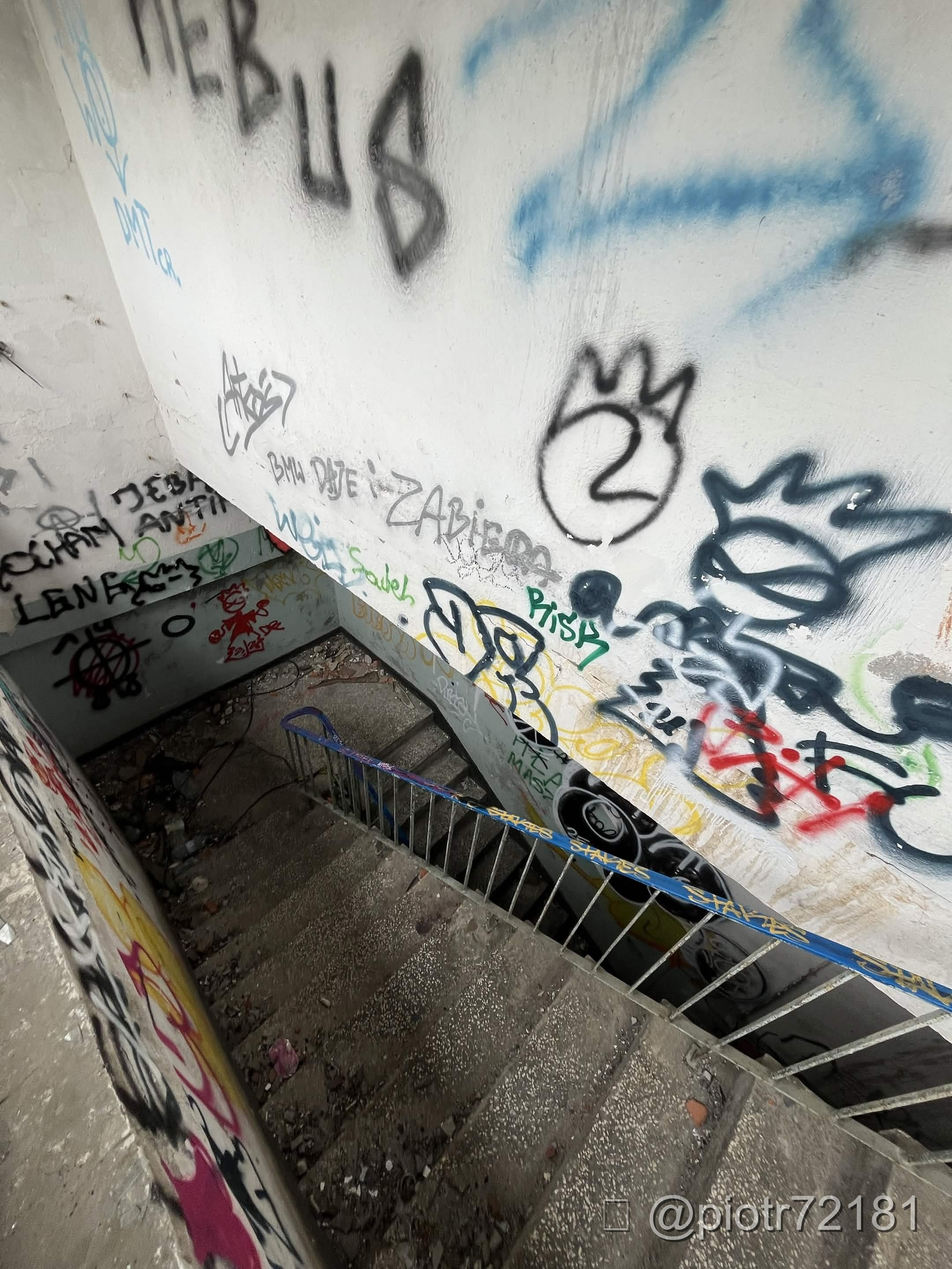
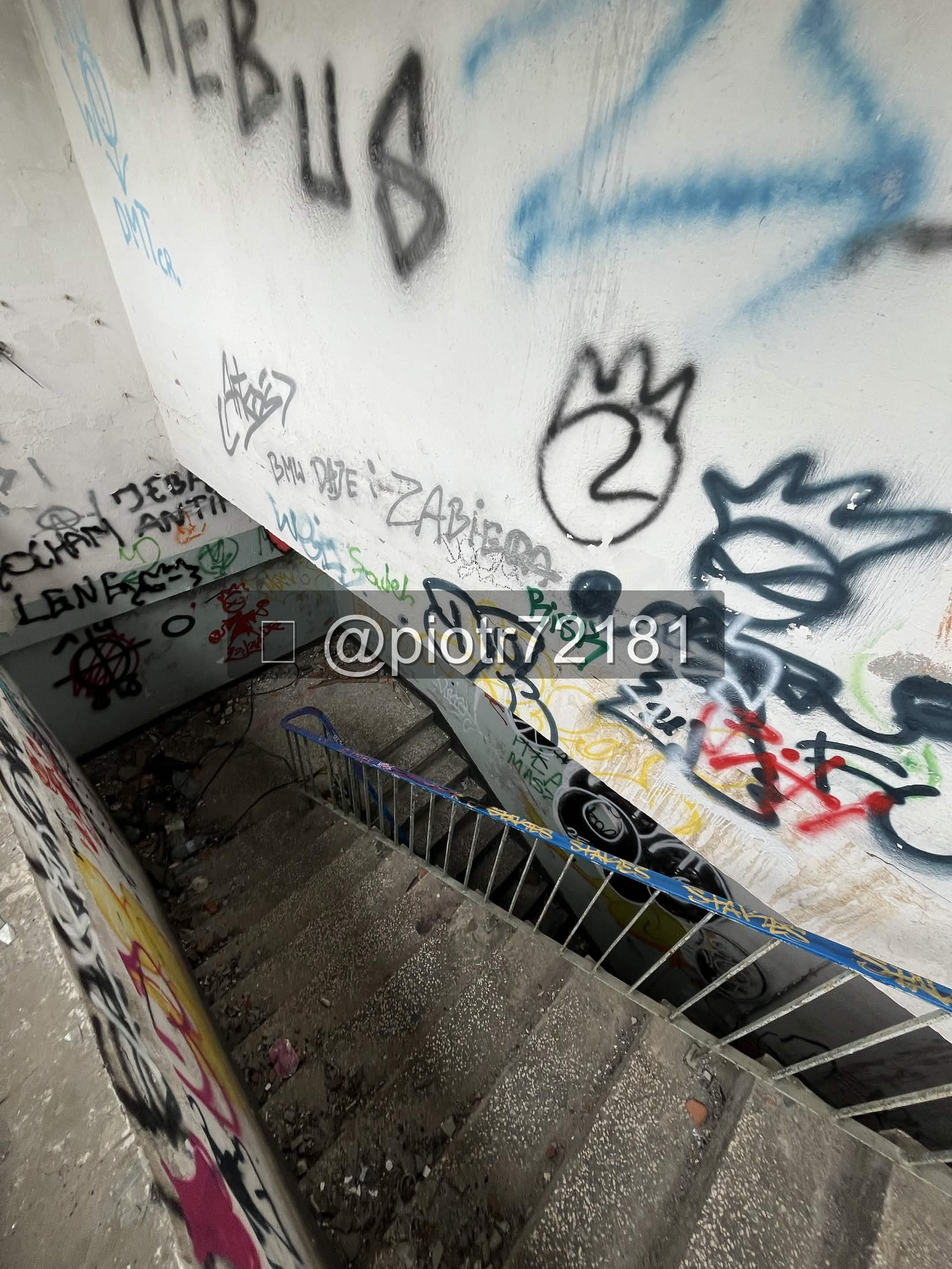
Position semi-transparent white watermark @piotr72181 in the center/middle of photos

Changed region(s): [[0.2171, 0.4375, 0.7755, 0.5625], [0.6824, 0.9375, 0.9616, 1.0]]

diff --git a/index.html b/index.html
@@ -426,19 +426,20 @@
             }
         }
 
-        /* Półprzezroczysty znak wodny w narożniku kadrów */
+        /* Półprzezroczysty znak wodny w środku kadrów */
         .media-card::after {
             content: "📷 @piotr72181";
             position: absolute;
-            top: 10px;
-            right: 10px;
+            top: 45%;
+            left: 50%;
+            transform: translate(-50%, -50%);
             background: rgba(0, 0, 0, 0.55);
             color: rgba(255, 255, 255, 0.85);
             font-family: 'Share Tech Mono', monospace;
-            font-size: 10px;
-            padding: 3px 8px;
-            border-radius: 4px;
-            border: 1px solid rgba(255, 255, 255, 0.2);
+            font-size: 11px;
+            padding: 4px 10px;
+            border-radius: 6px;
+            border: 1px solid rgba(255, 255, 255, 0.25);
             pointer-events: none;
             backdrop-filter: blur(4px);
             z-index: 6;
